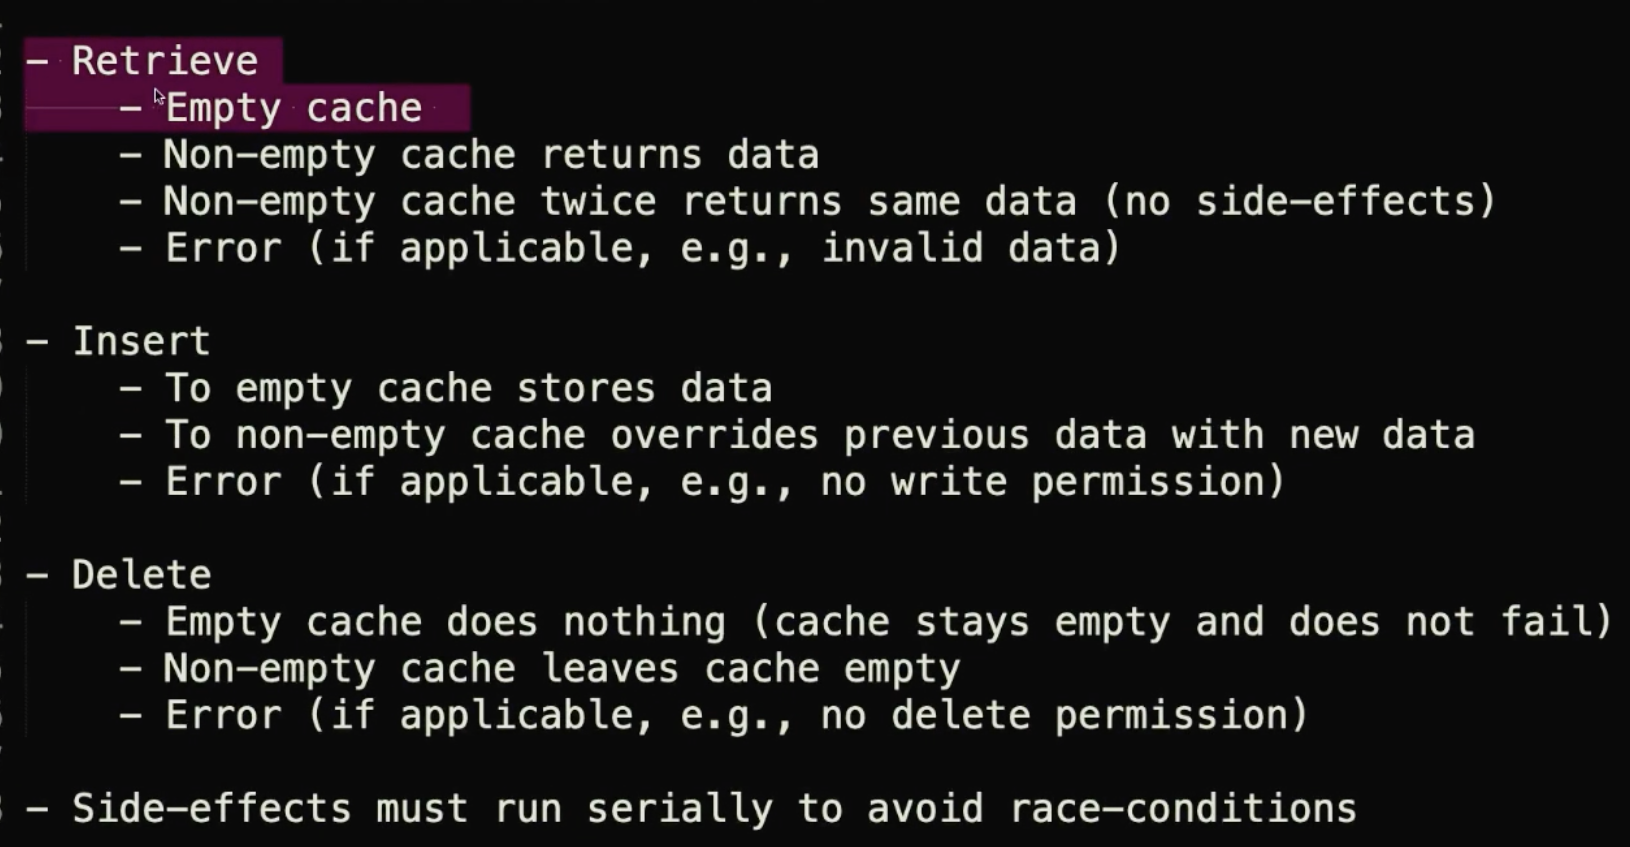
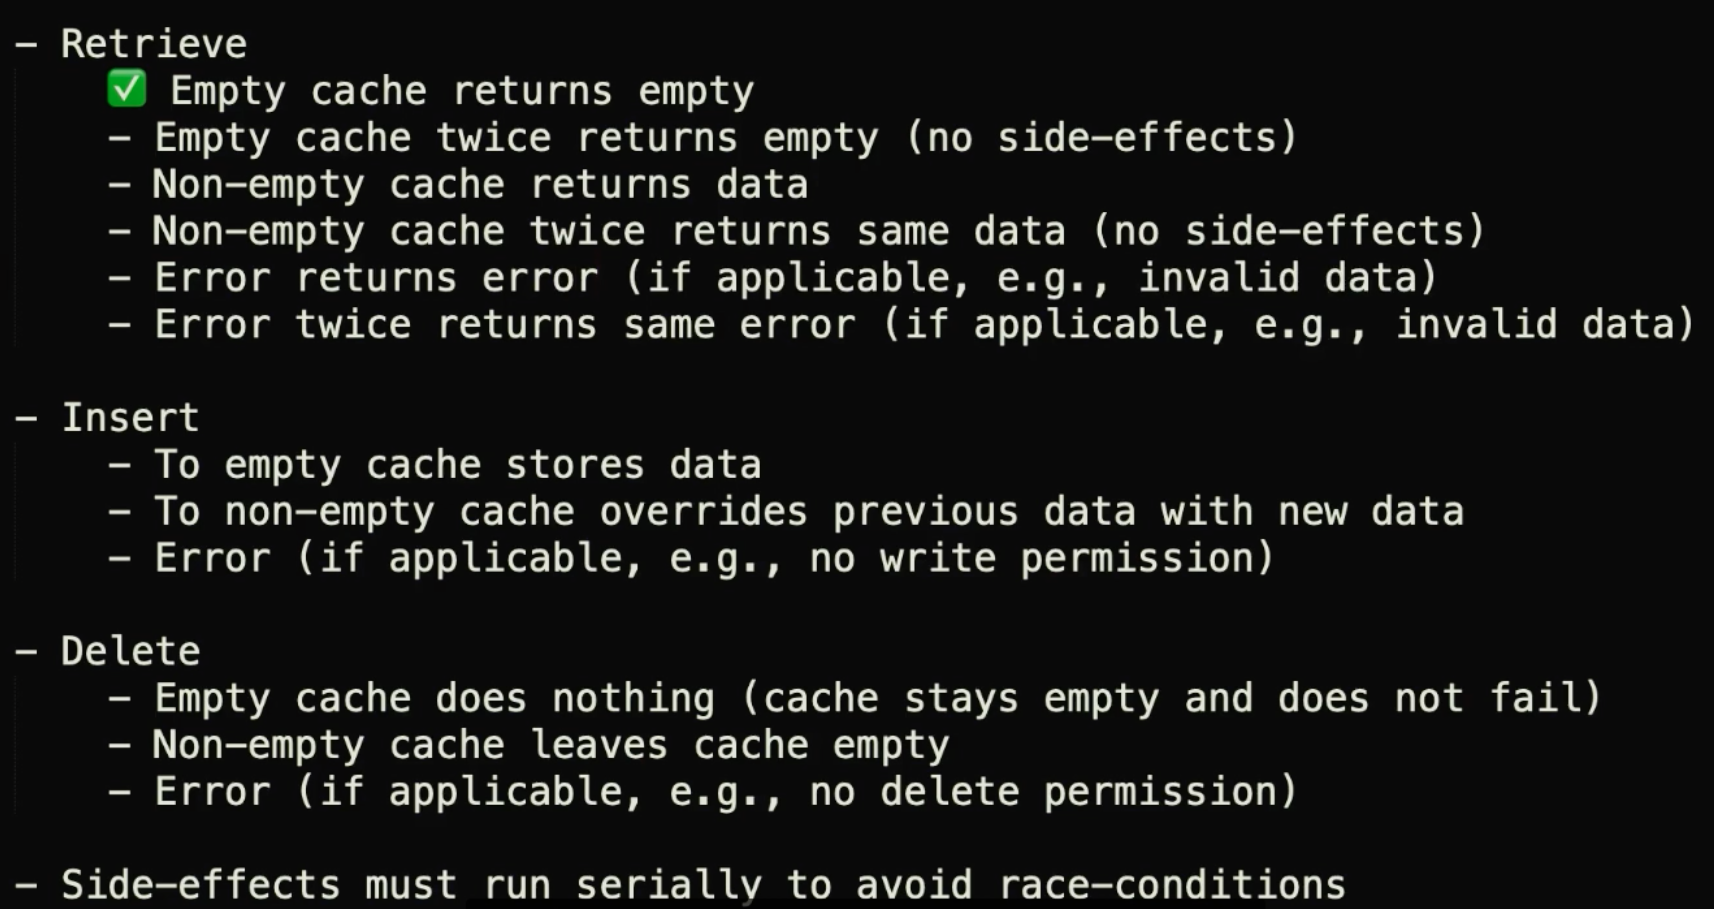
Updated Feed store use cases

Changed region(s): [[0.0, 0.0307, 1.0, 0.8902], [0.0, 0.9209, 0.8282, 1.0]]

diff --git a/EssentialFeedTests/CodableFeedStoreTests.swift b/EssentialFeedTests/CodableFeedStoreTests.swift
@@ -32,7 +32,7 @@ final class CodableFeedStoreTests: XCTestCase {
         wait(for: [exp], timeout: 1)
     }
     
-    func test_retrieve_deliversEmptyOnEmptyCache() {
+    func test_retrieve_deliversDataOnNonEmptyCache() {
         let sut = CoadableFeedStore()
         let exp = expectation(description: "retrieve value expectation")
         
